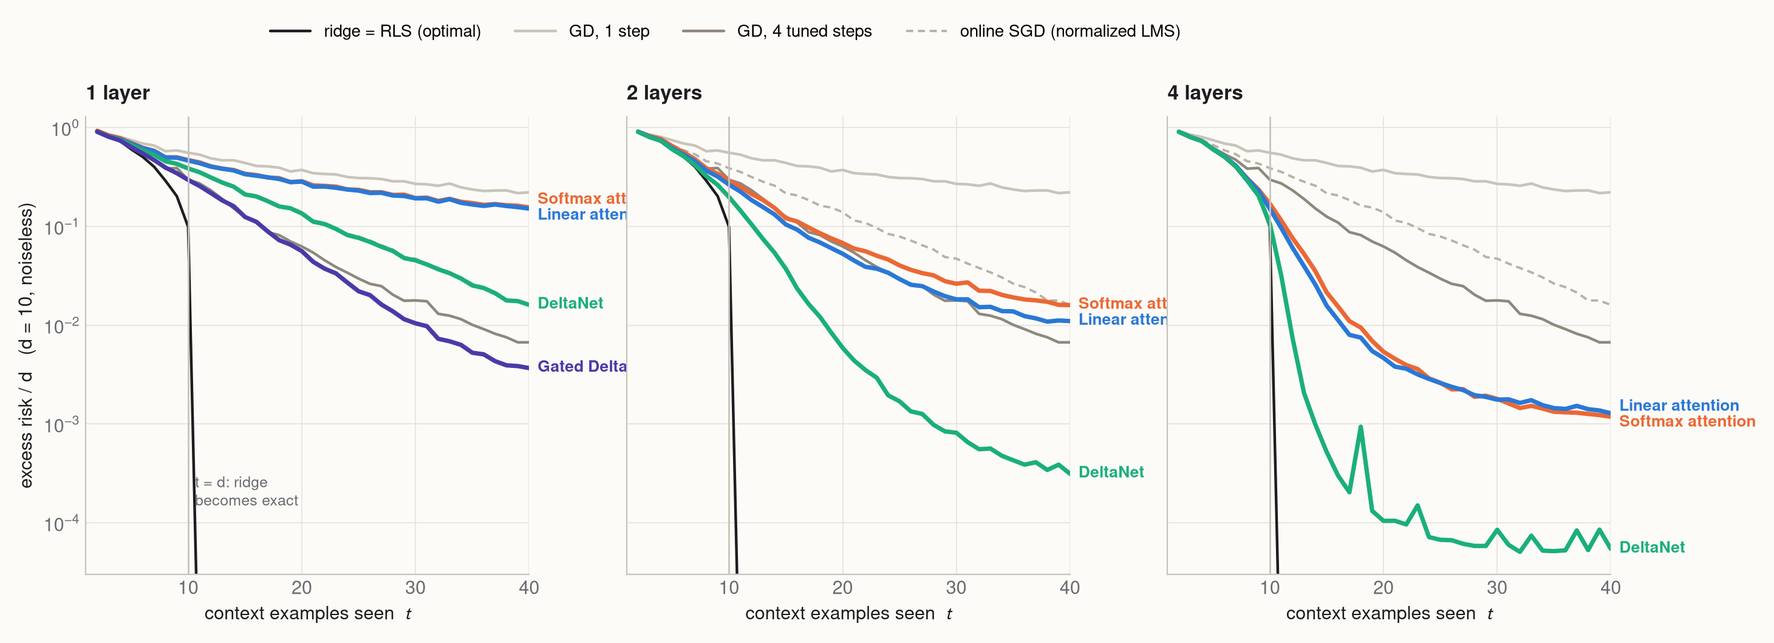
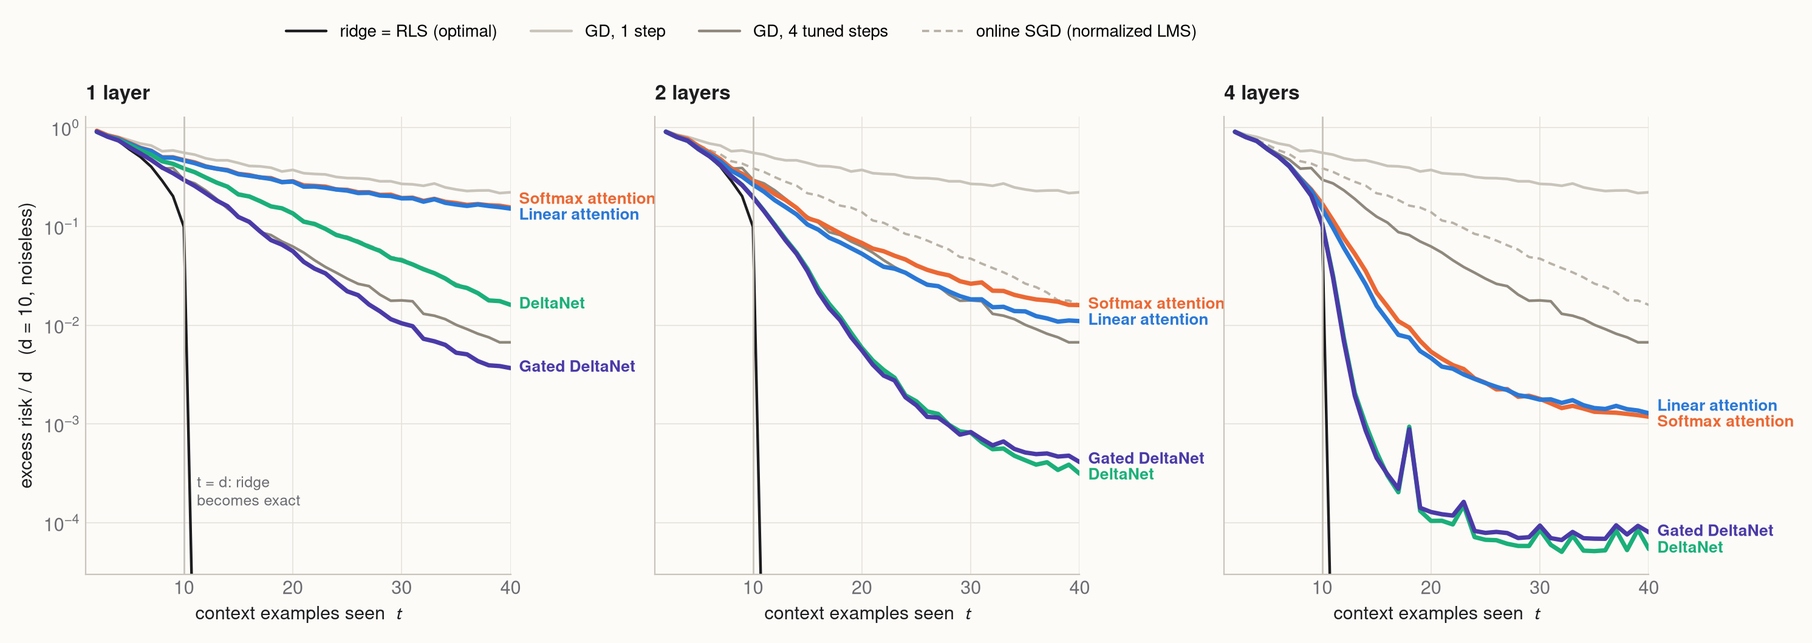
theory/08-icl-linear-attention: build-on results (delta rule learns NLMS; deep delta nets approach ridge), depth heavy tails, post text for sections 2-4, 7-8

diff --git a/theory/08-icl-linear-attention/render_seq.py b/theory/08-icl-linear-attention/render_seq.py
@@ -80,7 +80,7 @@ for j, (ax, L) in enumerate(zip(np.atleast_1d(axs), Ls)):
     ax.set_xlabel("context examples seen  $t$")
     if j == 0:
         ax.set_ylabel("excess risk / d   (d = 10, noiseless)")
-        ax.text(D + 0.6, 1.5e-4, "t = d: ridge\nbecomes exact", color=style.MUTED, fontsize=9)
+        ax.text(D + 1.2, 1.5e-4, "t = d: ridge\nbecomes exact", color=style.MUTED, fontsize=9)
 fig.legend(handles=handles, loc="upper center", ncol=4, bbox_to_anchor=(0.45, 1.06), fontsize=10, handlelength=2.4)
 for a in ALG_STYLE:
     summary[f"alg_t40_{a}"] = float(np.array(algs[a])[-1] / D); summary[f"alg_t20_{a}"] = float(np.array(algs[a])[19] / D)
@@ -123,39 +123,39 @@ fig.savefig(HERE / "figures" / "fingerprint.png")
 plt.close(fig)
 
 # ------------------------------------------------------------------------------------------ shift
-Lsh = 2 if 2 in Ls else Ls[0]
-fig, axs = plt.subplots(1, 2, figsize=(13.5, 4.8), gridspec_kw=dict(wspace=0.42))
+fig, axs = plt.subplots(1, 3, figsize=(17.5, 4.9), gridspec_kw=dict(wspace=0.62))
 cs = np.array(R["scales"])
 late = t >= 30
 handles = []
-ax = axs[0]
 sc_alg = R["algs"]["0.0"]["scale"]
-for a, (name, col, lw, ls) in ALG_STYLE.items():
-    if a == "ridge":
-        continue
-    y = [np.mean(np.array(sc_alg[str(c)][a])[late]) / D for c in cs]
-    h_, = ax.plot(cs, y, color=col, lw=lw, ls=ls, label=name)
-    handles.append(h_)
-labs = []
-for k in KINDS:
-    v = get(k, Lsh)
-    if v is None:
-        continue
-    y = [np.mean(np.array(v["scale"][str(c)])[late]) / D for c in cs]
-    ax.plot(cs, y, color=style.C[k], lw=2.6, marker="o", ms=5, mec=style.PAPER)
-    labs.append((k, np.log10(y[-1])))
-    summary[f"scale_{k}_L{Lsh}"] = dict(zip(map(str, cs), y))
-for (k, _), yv in zip(labs, declutter([l[1] for l in labs], 0.22)):
-    ax.annotate(style.NAMES[k], (cs[-1], 10**yv), xytext=(6, 0), textcoords="offset points", color=style.C[k], fontsize=9.5, fontweight="bold",
-                va="center", annotation_clip=False)
-ax.axvline(1, color="#c9c4ba", lw=1)
-ax.set_xscale("log", base=2); ax.set_yscale("log"); ax.set_ylim(2e-4, 5)
-ax.set_xticks(cs); ax.set_xticklabels([f"{c:g}" for c in cs])
-ax.set_xlabel("test inputs rescaled  $x \\to c\\,x$   (trained at c = 1)")
-ax.set_ylabel("excess risk / ($c^2 d$),  t = 30…40")
-ax.set_title(f"a  change the input scale ({Lsh}-layer models)")
-ax.text(0.03, 0.04, "ridge / least squares: exactly 0 at every scale", transform=ax.transAxes, fontsize=9, color=style.INK)
-ax = axs[1]
+for pi, Lsh in enumerate([1, 4]):
+    ax = axs[pi]
+    for a, (name, col, lw, ls) in ALG_STYLE.items():
+        if a == "ridge":
+            continue
+        y = [np.mean(np.array(sc_alg[str(c)][a])[late]) / D for c in cs]
+        h_, = ax.plot(cs, y, color=col, lw=lw, ls=ls, label=name)
+        if pi == 0:
+            handles.append(h_)
+    labs = []
+    for k in KINDS:
+        v = get(k, Lsh)
+        if v is None:
+            continue
+        y = [np.mean(np.array(v["scale"][str(c)])[late]) / D for c in cs]
+        ax.plot(cs, y, color=style.C[k], lw=2.6, marker="o", ms=5, mec=style.PAPER)
+        labs.append((k, np.log10(y[-1])))
+        summary[f"scale_{k}_L{Lsh}"] = dict(zip(map(str, cs), y))
+    for (k, _), yv in zip(labs, declutter([l[1] for l in labs], 0.2)):
+        ax.annotate(style.NAMES[k], (cs[-1], 10**yv), xytext=(6, 0), textcoords="offset points", color=style.C[k], fontsize=9.5, fontweight="bold",
+                    va="center", annotation_clip=False)
+    ax.axvline(1, color="#c9c4ba", lw=1)
+    ax.set_xscale("log", base=2); ax.set_yscale("log"); ax.set_ylim(4e-5, 5)
+    ax.set_xticks(cs); ax.set_xticklabels([f"{c:g}" for c in cs])
+    ax.set_xlabel("test inputs rescaled  $x \\to c\\,x$   (trained at c = 1)")
+    ax.set_ylabel("excess risk / ($c^2 d$),  t = 30…40")
+    ax.set_title(f"{'ab'[pi]}  change the input scale: {Lsh} layer{'s' if Lsh > 1 else ''}")
+ax = axs[2]
 ns = np.array(R["noises"])
 nz_alg = R["algs"]["0.5"]["noise"]
 for a, (name, col, lw, ls) in ALG_STYLE.items():
@@ -179,8 +179,8 @@ ax.axvline(0.5, color="#c9c4ba", lw=1)
 ax.set_yscale("log")
 ax.set_xlabel("test label noise  $\\sigma$   (trained at σ = 0.5)")
 ax.set_ylabel("excess risk / d,  t = 30…40")
-ax.set_title("b  change the noise level (2-layer models)")
-fig.legend(handles=handles, loc="upper center", ncol=4, bbox_to_anchor=(0.47, 1.07), fontsize=10, handlelength=2.4)
+ax.set_title("c  change the noise level: 2 layers")
+fig.legend(handles=handles, loc="upper center", ncol=4, bbox_to_anchor=(0.45, 1.08), fontsize=10, handlelength=2.4)
 fig.savefig(HERE / "figures" / "shift.png")
 plt.close(fig)
 json.dump(summary, open(HERE / "cache" / "seq_summary.json", "w"), indent=1)

diff --git a/theory/08-icl-linear-attention/render_repro.py b/theory/08-icl-linear-attention/render_repro.py
@@ -24,7 +24,8 @@ ev = json.load(open(HERE / "cache" / "lsa1_eval.json"))
 summary = {}
 
 # ------------------------------------------------------------------------------------------ lsa1 plate
-fig, axs = plt.subplots(1, 4, figsize=(18, 4.4), gridspec_kw=dict(wspace=0.34))
+fig, axs = plt.subplots(2, 2, figsize=(12.5, 9.6), gridspec_kw=dict(wspace=0.32, hspace=0.42))
+axs = axs.flatten()
 ax = axs[0]
 for cov, col, name in [("ar1", COR, "correlated"), ("iso", ISO, "isotropic")]:
     z = np.load(HERE / "cache" / f"gradflow_{cov}_d20_N40_s0.npz")
@@ -42,7 +43,7 @@ for cov, col, name in [("ar1", COR, "correlated"), ("iso", ISO, "isotropic")]:
     B = np.array([effective_preconditioner(torch.tensor(pv), torch.tensor(kq), 20).numpy() for pv, kq in zip(z["Wpv"], z["Wkq"])])
     e = np.linalg.norm(B - Gi, axis=(1, 2)) / np.linalg.norm(Gi)
     ax.plot(z["steps"][1:], e[1:], color=col, lw=2.2)
-    style.label_end(ax, z["steps"][-1], e[-1], f"{name}: {e[-1]:.0%}", col, dx=-4, dy=-11, ha="right")
+    style.label_end(ax, z["steps"][-1], e[-1], f"{name}: {e[-1]:.1%}", col, dx=-4, dy=-11, ha="right")
     summary[f"adam_{cov}_relerr_B"] = float(e[-1])
 ax.set_xscale("log"); ax.set_yscale("log"); ax.set_ylim(3e-3, 3)
 ax.set_xlabel("Adam steps (batch 4096, all 882 entries free)"); ax.set_ylabel("$\\|A - \\Gamma^{-1}\\| / \\|\\Gamma^{-1}\\|$")
@@ -71,7 +72,7 @@ for cov, col in [("ar1", COR), ("iso", ISO)]:
     r = ev[cov]["risk_scale"]
     ax.plot(Cs, r["theory_star"], color=style.INK, lw=1.2)
     ax.scatter(Cs, r["trained_mc"], color=col, s=34, zorder=4, edgecolor=style.PAPER, lw=1.2)
-ax.axhline(0, color=style.INK, lw=0)
+ax.set_ylim(4, 180)
 ax.set_xscale("log", base=2); ax.set_yscale("log")
 ax.set_xticks([0.5, 0.71, 1, 1.41, 2]); ax.set_xticklabels(["½", "", "1", "", "2"])
 ax.yaxis.set_major_formatter(matplotlib.ticker.FuncFormatter(lambda v, _: f"{v:g}")); ax.yaxis.set_minor_formatter(matplotlib.ticker.NullFormatter())
@@ -120,7 +121,7 @@ summary["randexp"] = {k: rc[k] for k in ["M", "slope", "risk", "b_finiteN", "slo
 
 # ------------------------------------------------------------------------------------------ depth
 de = json.load(open(HERE / "cache" / "deep_eval.json"))
-fig, axs = plt.subplots(1, 2, figsize=(14, 4.8), gridspec_kw=dict(wspace=0.62))
+fig, axs = plt.subplots(1, 2, figsize=(11.5, 4.7), gridspec_kw=dict(wspace=0.75))
 for ax, tag, ttl in [(axs[0], "iso", "isotropic inputs"), (axs[1], "ar1", "correlated inputs ($\\Lambda_{ij} = 0.8^{|i-j|}$)")]:
     rows = [v for k, v in de.items() if k.startswith(f"lsa_deep_{tag}|")]
     d, n = rows[0]["d"], rows[0]["n"]
@@ -134,13 +135,13 @@ for ax, tag, ttl in [(axs[0], "iso", "isotropic inputs"), (axs[1], "ar1", "corre
         if kind == "dense":
             ax.plot(L_, tr, color=col, lw=1.4, ls=(0, (3, 2)), marker="o", ms=5, mfc=style.PAPER, mec=col, zorder=3)
             ax.errorbar(L_, mu, yerr=np.minimum(2 * se, mu * 0.95), color=col, lw=2.4, marker=mk, ms=8, mec=style.PAPER, mew=1.5, zorder=4, capsize=0)
-            style.label_end(ax, L_[-1], mu[-1], "linear attention", col, dx=10, dy=6 if tag == "iso" else -8, fontsize=10)
-            style.label_end(ax, L_[-1], tr[-1], "same, dropping worst 0.1%\nof prompts", col, dx=10, fontsize=8.5, fontweight="normal")
+            style.label_end(ax, L_[-1], mu[-1], "linear attention", col, dx=8, dy=7 if tag == "iso" else -8, fontsize=11)
+            style.label_end(ax, L_[-1], tr[-1], "dashed: dropping the\nworst 0.1% of prompts", col, dx=8, dy=-6, fontsize=10, fontweight="normal")
             summary[f"depth_{tag}_dense_trim"] = dict(zip(map(int, L_), tr)); summary[f"depth_{tag}_dense_mean"] = dict(zip(map(int, L_), mu))
             summary[f"depth_{tag}_dense_sem"] = dict(zip(map(int, L_), se))
         else:
             ax.errorbar(L_, mu, yerr=2 * se, color=col, lw=2.2, marker=mk, ms=7, mec=style.PAPER, mew=1.5, capsize=0)
-            style.label_end(ax, L_[-1], mu[-1], name, col, dx=10, fontsize=9.5)
+            style.label_end(ax, L_[-1], mu[-1], name.replace(", ", ",\n"), col, dx=8, fontsize=11)
             summary[f"depth_{tag}_{kind}"] = dict(zip(map(int, L_), mu))
     if tag == "iso":
         g = d / n

diff --git a/theory/08-icl-linear-attention/analysis_seq.py b/theory/08-icl-linear-attention/analysis_seq.py
@@ -86,42 +86,49 @@ def model_preds(model, X, y):
     return torch.cat(preds)
 
 
-res = {"t": list(range(1, N + 1)), "scales": SCALES, "noises": NOISES, "models": {}, "algs": {}}
-tuned = {}
-for sig in (0.0, 0.5):
-    t0 = time.time()
-    tuned[sig] = tune(sig)
-    res["algs"][str(sig)] = {"betas": {"nlms": tuned[sig][1][True], "lms": tuned[sig][1][False]},
-                             "gd_lrs": {k: [None] + [v.tolist() for v in tuned[sig][0][k][1:]] for k in tuned[sig][0]}}
-    print(f"tuned baselines for sigma={sig} in {time.time()-t0:.0f}s  betas={tuned[sig][1]}", flush=True)
+BASE = HERE / "cache" / "seq_baselines.pt"
+if BASE.exists():
+    res, EV = torch.load(BASE, weights_only=False)
+    res["models"] = {}
+    print("loaded cached baselines", flush=True)
+else:
+    res = {"t": list(range(1, N + 1)), "scales": SCALES, "noises": NOISES, "models": {}, "algs": {}}
+    tuned = {}
+    for sig in (0.0, 0.5):
+        t0 = time.time()
+        tuned[sig] = tune(sig)
+        res["algs"][str(sig)] = {"betas": {"nlms": tuned[sig][1][True], "lms": tuned[sig][1][False]},
+                                 "gd_lrs": {k: [None] + [v.tolist() for v in tuned[sig][0][k][1:]] for k in tuned[sig][0]}}
+        print(f"tuned baselines for sigma={sig} in {time.time()-t0:.0f}s  betas={tuned[sig][1]}", flush=True)
 
-# shared evaluation prompts
-EV = {}
-for sig in (0.0, 0.5):
-    X, y, f = prompts(4096, sig)
-    EV[("in", sig)] = (X, y, f)
-    EV[("algs", sig)] = algorithms(X, y, sig, *tuned[sig])
-    res["algs"][str(sig)]["risk"] = {k: ((v - f) ** 2).mean(0).tolist() for k, v in EV[("algs", sig)].items()}
-    shift = {}
-    for c in SCALES:
-        Xc, yc, fc = prompts(1024, sig, c)
-        A = algorithms(Xc, yc, sig, *tuned[sig])
-        shift[c] = (Xc, yc, fc)
-        res["algs"][str(sig)].setdefault("scale", {})[str(c)] = {k: (((v - fc) ** 2).mean(0) / c**2).tolist() for k, v in A.items()}
-    EV[("scale", sig)] = shift
-    noise = {}
-    for s2 in NOISES:
-        Xn, yn, fn = prompts(1024, s2)
-        A = algorithms(Xn, yn, sig, *tuned[sig])
-        noise[s2] = (Xn, yn, fn)
-        res["algs"][str(sig)].setdefault("noise", {})[str(s2)] = {k: ((v - fn) ** 2).mean(0).tolist() for k, v in A.items()}
-    EV[("noise", sig)] = noise
-    print(f"baselines evaluated for sigma={sig}", flush=True)
+    # shared evaluation prompts
+    EV = {}
+    for sig in (0.0, 0.5):
+        X, y, f = prompts(4096, sig)
+        EV[("in", sig)] = (X, y, f)
+        EV[("algs", sig)] = algorithms(X, y, sig, *tuned[sig])
+        res["algs"][str(sig)]["risk"] = {k: ((v - f) ** 2).mean(0).tolist() for k, v in EV[("algs", sig)].items()}
+        shift = {}
+        for c in SCALES:
+            Xc, yc, fc = prompts(1024, sig, c)
+            A = algorithms(Xc, yc, sig, *tuned[sig])
+            shift[c] = (Xc, yc, fc)
+            res["algs"][str(sig)].setdefault("scale", {})[str(c)] = {k: (((v - fc) ** 2).mean(0) / c**2).tolist() for k, v in A.items()}
+        EV[("scale", sig)] = shift
+        noise = {}
+        for s2 in NOISES:
+            Xn, yn, fn = prompts(1024, s2)
+            A = algorithms(Xn, yn, sig, *tuned[sig])
+            noise[s2] = (Xn, yn, fn)
+            res["algs"][str(sig)].setdefault("noise", {})[str(s2)] = {k: ((v - fn) ** 2).mean(0).tolist() for k, v in A.items()}
+        EV[("noise", sig)] = noise
+        print(f"baselines evaluated for sigma={sig}", flush=True)
+    torch.save((res, EV), BASE)
 
 OUT = HERE / "cache" / "seq_eval.json"
 if OUT.exists():
     res["models"] = json.load(open(OUT))["models"]
-for path in sorted(glob.glob(str(HERE / "cache" / "seq_*.pt"))):
+for path in sorted(glob.glob(str(HERE / "cache" / "seq_*_seed*.pt"))):
     if pathlib.Path(path).stem in res["models"]:
         continue
     ck = torch.load(path, map_location="cpu")

diff --git a/theory/08-icl-linear-attention/build_widget_data.py b/theory/08-icl-linear-attention/build_widget_data.py
@@ -1,11 +1,12 @@
-"""Collect trained deep-LSA / GD-k points for the explorer widget -> widgets/data_explorer.js"""
+"""Collect trained deep-LSA / GD-k points for the explorer widget -> widgets/data_explorer.js
+Uses the large-sample re-evaluation (eval_deep.py) when available: mean squared error over 2^18 prompts."""
 import json, pathlib
 HERE = pathlib.Path(__file__).parent
+ev = json.load(open(HERE / "cache" / "deep_eval.json"))
 pts = []
-for f in sorted((HERE / "cache").glob("lsa_deep_*.json")):
-    for r in json.load(open(f))["runs"]:
-        kind, L, d, n, sigma, cov = r["cfg"]
-        if cov == "iso" and d == 10 and kind in ("gd", "dense"):
-            pts.append({"kind": kind, "L": L, "n": n, "sigma": sigma, "risk": round(r["risk"], 5)})
+for v in ev.values():
+    if v["cov"] == "iso" and v["d"] == 10 and v["kind"] in ("gd", "dense"):
+        pts.append({"kind": v["kind"], "L": v["L"], "n": v["n"], "sigma": v["sigma"], "risk": round(v["mean"], 5),
+                    "trim": round(v["trim999"], 5), "sem": round(v["sem"], 5)})
 (HERE / "widgets" / "data_explorer.js").write_text("window.EXPLORER_DATA = " + json.dumps({"points": pts}) + ";\n")
 print(len(pts), "points")

diff --git a/theory/08-icl-linear-attention/render_think.py b/theory/08-icl-linear-attention/render_think.py
@@ -151,7 +151,4 @@ if ONLY:
 out = HERE / "figures"
 subprocess.run(["ffmpeg", "-y", "-loglevel", "error", "-framerate", str(FPS), "-i", str(FR / "f%04d.png"), "-c:v", "libx264", "-pix_fmt", "yuv420p",
                 "-crf", "20", "-vf", "scale=1600:-2", str(out / "think.mp4")], check=True)
-subprocess.run(["ffmpeg", "-y", "-loglevel", "error", "-framerate", str(FPS), "-i", str(FR / "f%04d.png"), "-vf",
-                "fps=15,scale=960:-1:flags=lanczos,split[s0][s1];[s0]palettegen=max_colors=160[p];[s1][p]paletteuse=dither=bayer:bayer_scale=4",
-                str(out / "think.gif")], check=True)
-print("wrote think.mp4 / think.gif")
+print("wrote think.mp4")

diff --git a/theory/08-icl-linear-attention/post.md b/theory/08-icl-linear-attention/post.md
@@ -81,7 +81,7 @@ Since the task is regression, we know what the good algorithms are, and we can c
 Here is what those algorithms look like when they run on a prompt in two dimensions. The trained model (blue) is not a black box here: §2 shows it computes exactly this trajectory.
 
 <figure class="wide dark">
-<video autoplay loop muted playsinline src="figures/think.mp4"></video>
+<video autoplay loop muted playsinline poster="figures/think_poster.jpg" src="figures/think.mp4"></video>
 <figcaption>Context pairs arrive one at a time ($d = 2$, correlated inputs, noise $\sigma = 0.35$). Right: each algorithm's current estimate $\hat w$ in weight space. Ellipses are level sets of the least-squares loss on the examples seen so far. Bottom: expected error over many prompts. <b style="color:#ece8df">Ridge/RLS</b> heads straight for the answer. The <b style="color:#4f9bf0">trained one-layer linear attention</b> takes one preconditioned gradient step from zero, so its estimate is a rescaled data average and stays biased while the examples are few. The <b style="color:#2fcf94">delta rule</b> (online SGD, step 0.15) zig-zags. The trajectories are exact closed forms; the risk curves are Monte Carlo over $2\times10^5$ prompts (LMS, ridge) or closed form (linear attention).</figcaption>
 </figure>
 
@@ -129,10 +129,12 @@ Real training uses minibatches, not the population loss. So I also trained every
 
 <figure class="wide">
 <img src="figures/lsa1_plate.png" alt="Convergence to Gamma inverse, risk vs context length, and covariate scaling">
-<figcaption>«CAPTION_LSA1»</figcaption>
+<figcaption>One-layer linear self-attention ($d=20$, $N=40$). <b>(a)</b> Gradient flow on the exact population loss, started from ZFB's initialization, reaches the Theorem 4.1 weights to machine precision: $4\times10^{-11}$ for correlated inputs and $3\times10^{-12}$ for isotropic ones. <b>(b)</b> Adam on minibatches of fresh prompts, with all $2\times21^2 = 882$ entries free, measured by the distance of the effective preconditioner $A = w^{PV}_{22} W^{KQ}_{11}$ to $\Gamma^{-1}$. Isotropic inputs converge to 0.8%. Correlated inputs are still 39% away after 16,000 steps (§8). <b>(c)</b> In-context risk versus test prompt length. Lines are the closed form at $W_*$; dots are the trained layers on $2^{18}$ fresh prompts each. The dashed line is the best *plain* (scalar-step) GD step on correlated inputs: preconditioning is worth a factor 1.6 at $M=40$. <b>(d)</b> Test inputs multiplied by $c$. The error, normalized by $c^2$, explodes away from $c=1$, and again the trained layers sit on the closed form. Least squares has zero error at every $c$.</figcaption>
 </figure>
 
-«TEXT_LSA1»
+The trained layers match the theory closely. At the training length $M = 40$ the isotropic layer's measured risk is 6.85 against a closed-form 6.89, a difference within Monte Carlo error. The correlated layer is at 4.65 against 4.59: it is 1.2% worse, because it has not finished converging. Across test lengths from 5 to 320 and input scales from ½ to 2, every measured point sits on its closed-form curve.
+
+Notice two details of the theory in panel (c). First, the risk keeps falling past the training length $N = 40$ but never reaches zero. A fixed preconditioner is a one-shot estimator, so it can't converge to the truth; ZFB show the excess error has an $O(1/M)$ part and a floor of order $1/N^2$ that only more training *length* removes. Second, the trained layer is far better than a well-tuned plain GD step when inputs are correlated. Everything the layer knows about the input distribution lives in $\Gamma^{-1}$.
 
 ## 3. Where one layer breaks
 
@@ -144,7 +146,7 @@ Real training uses minibatches, not the population loss. So I also trained every
 
 <figure>
 <img src="figures/randcov.png" alt="random covariance training plateau">
-<figcaption>«CAPTION_RANDCOV»</figcaption>
+<figcaption>A layer trained on prompts whose diagonal covariance is redrawn per prompt (Exponential(1) entries, $d=20$, $N=40$). Weights from exact gradient flow, which lands on ZFB's Theorem 4.5 solution to $10^{-11}$. <b>Left:</b> more test examples do not drive the error to zero. It plateaus at $d\,(6b^2-4b+1) = 7.06$, where $b = 0.276$ is the diagonal of the learned preconditioner (1/3 in the $N\to\infty$ limit). <b>Right:</b> predictions versus the truth at $M=2560$. The least-squares slope is 0.556, against a predicted $2b = 0.552$. ZFB's "$\tfrac13$" is the average gain $\mathbb E[b\,\lambda_{\text{new}}]$; the regression slope is larger because prompts with large variance count more.</figcaption>
 </figure>
 
 A single layer can only apply one preconditioner. To adapt to each prompt's own geometry, like RLS or Newton's method do, it needs a *data-dependent* preconditioner. That takes depth, or a different recurrence.
@@ -168,11 +170,15 @@ The widget runs these formulas live (ridge and $k$-step GD, with the step sizes 
 <script src="widgets/data_explorer.js"></script>
 <script src="widgets/explorer.js"></script>
 
-«TEXT_DEPTH»
+Three things show up in the depth figure below.
+
+1. **Layers really are steps, and depth pays off geometrically.** GD with learned step sizes (gray) improves by roughly 2× per step, close to the $\gamma=\tfrac12$ formula and a little worse at finite $d=10$. So does GD with learned preconditioners on correlated inputs (black). One layer of trained linear attention lands on the one-step optimum: 0.357 against a closed-form 0.355 (isotropic), and 0.252 against 0.250 (correlated, ZFB's $\Gamma^{-1}$).
+2. **Trained linear attention beats every GD variant at depth ≥ 2.** At two layers its error is 3× lower than two tuned GD steps on isotropic data, and 2.3× lower than two *preconditioned* steps on correlated data. The dense weights let each layer rewrite the $x$ tokens too, so later layers precondition with statistics of *this* prompt. This is von Oswald's GD++, a cheap relative of Newton's method. Fu et al. (2024) push this further and argue that deep transformers track iterative Newton.
+3. **The mean error of deep linear attention is heavy-tailed.** A depth-$L$ network is a polynomial of degree about $3^L$ in the prompt, so a rare prompt with a few large inputs can produce an enormous error. For the 3-layer isotropic model, the mean over $2.6\times10^5$ prompts is $0.071 \pm 0.03$, while dropping the worst 0.1% gives 0.029. The 4-layer model on correlated inputs has a typical error of 0.005 but a mean dominated by a handful of prompts. GD with few steps is a polynomial too, but of lower degree, and its mean and trimmed mean differ by under 10%.
 
 <figure class="wide">
 <img src="figures/depth.png" alt="depth vs risk">
-<figcaption>«CAPTION_DEPTH»</figcaption>
+<figcaption>Trained models at $d=10$, $n=20$, noiseless, evaluated on $2^{18}$ fresh prompts (error bars ±2 s.e.). Gray: $k$ steps of GD with learned step sizes. Black: $k$ steps with learned matrix preconditioners (Ahn et al.'s sparse parameterization, identical to their Lemma 1). Blue: linear attention with every entry of $P_\ell, Q_\ell$ trained. The solid line is the mean error; the dashed line drops the worst 0.1% of prompts. Dotted line (left): proportional-limit optimum for tuned GD; finite $d = 10$ sits slightly above it. On correlated inputs the dense models start from Ahn's sparsity pattern plus noise, because from a purely random start the one-layer model stalled at twice the optimal error (§8).</figcaption>
 </figure>
 
 ## 5. How many tasks does it need?
@@ -237,21 +243,27 @@ The baselines on the same prompts are ridge (= RLS); GD with 1–4 steps, step s
 
 <figure class="wide">
 <img src="figures/race.png" alt="algorithm race">
-<figcaption>«CAPTION_RACE»</figcaption>
+<figcaption>Excess risk (per dimension) after seeing $t$ examples, for $d=10$ and noiseless prompts. One model per curve, averaged over 4,096 fresh prompts. Neutral lines are the classical algorithms on the same prompts. GD is re-tuned separately for every $t$, which is an advantage no fixed network has. Ridge is exactly zero once $t \ge d$. The spikes in the 4-layer DeltaNet curves come from a few hard prompts in the shared evaluation set.</figcaption>
 </figure>
 
-«TEXT_RACE»
+**Result 1: at matched depth, the delta rule wins by one to two orders of magnitude.** With one layer, softmax and linear attention reach an error of 0.15 at $t = 40$. That is better than a single tuned GD step (0.22) but nowhere near least squares. DeltaNet reaches 0.016 and Gated DeltaNet 0.004. With two layers, the attention models reach 0.011–0.016, about as good as four *oracle-tuned* GD steps (0.007). Both delta-rule models reach $3$–$4\times10^{-4}$, 30–50× lower. With four layers, attention gets to $1.2\times10^{-3}$ and the delta-rule models to $5$–$8\times10^{-5}$.
+
+Softmax and linear attention are nearly indistinguishable at every depth, even though only one of them has a clean GD interpretation. Softmax normalization turns out not to matter much here; the error-correcting write in DeltaNet does.
 
 <figure class="wide">
 <img src="figures/fingerprint.png" alt="algorithm fingerprint">
-<figcaption>«CAPTION_FP»</figcaption>
+<figcaption>How close is each trained model's prediction to each algorithm's prediction on the same prompts? Each cell is the mean squared difference per dimension, averaged over $t = 11\dots40$; the box marks the closest algorithm. Caveat: a model that is simply very good sits close to ridge by default, so read the ridge column as "good", and the other columns as "specifically like this algorithm".</figcaption>
 </figure>
 
-«TEXT_FP»
+**Result 2: one layer of DeltaNet has learned exactly online SGD.** Its predictions differ from normalized LMS, run with a step size I tuned independently ($\beta^\star = 0.96$), by only 0.002 per dimension, and its risk curve lies on top of LMS's (0.0161 vs 0.0161 at $t=40$). Opening the model up confirms it. One head writes with $\beta \approx 0.95$ on example tokens and a much smaller $\beta \approx 0.2$ on query tokens, which contain no label and would only pollute the memory. The trained network rediscovered the Kaczmarz/NLMS algorithm, step size included.
+
+One-layer attention models sit closest to one GD step, as the theory says, though the MLP and second head make them better than a single step. Gated DeltaNet at one layer is not LMS: it is closer to 4 GD steps and better than both. With two or more layers every delta-rule model is closest to ridge, and far closer to it than attention is.
+
+Gates also turn out to be used, but not for forgetting examples. In the deeper Gated DeltaNets, one head in the first layers learns a decay $\alpha \approx 0.01$–$0.4$, a memory that lasts only a token or two, while the other head keeps $\alpha \approx 1$. It looks like the network builds itself a local "previous token" channel next to the long-term regression memory.
 
 <figure class="wide">
 <img src="figures/shift.png" alt="shift tests">
-<figcaption>«CAPTION_SHIFT»</figcaption>
+<figcaption>Changing the test distribution. <b>(a, b)</b> Inputs multiplied by $c$ (noiseless; error normalized by $c^2$ and averaged over $t=30\dots40$). Ridge/least squares is exactly 0 at every scale (not shown). Normalized LMS (dashed) is scale-invariant by construction. GD with fixed tuned steps diverges for $c > 1$. <b>(c)</b> Models trained with label noise $\sigma = 0.5$, tested at other noise levels; neutral lines are the algorithms tuned for $\sigma = 0.5$.</figcaption>
 </figure>
 
 «TEXT_SHIFT»
@@ -262,7 +274,19 @@ The baselines on the same prompts are ridge (= RLS); GD with 1–4 steps, step s
 
 ## 8. What didn't match
 
-«TEXT_BREAKS»
+Honest accounting of where measurement and theory parted ways, or where I had to change the setup to get a clean result.
+
+**Minibatch training is much slower than the theorem suggests on correlated inputs.** Gradient flow on the exact population loss converges for both covariances, but look at the time axis of panel (a) in §2: isotropic inputs converge by $t\approx 7$, correlated ones only by $t \approx 500$. The directions of $\Gamma^{-1}$ tied to small eigenvalues of $\Lambda$ (down to 0.11 here) are learned last; the hero animation shows the smooth, large-eigenvalue part of the matrix appearing first. With Adam at batch 4096, the correlated layer is still 39% from $\Gamma^{-1}$ after 16,000 steps, even though its risk is within 1.2% of the optimum. The loss is flat in exactly the directions that are slow. Plain SGD at learning rates that finish in reasonable time diverged outright, because the loss is quartic in the inputs and minibatch gradients are heavy-tailed. All the matrix-level matches in §2 therefore come from the exact flow, and the risk-level matches come from Adam.
+
+**The theorem needs its initialization.** ZFB's convergence proof assumes a specific balanced initialization. With deep linear attention on correlated inputs and a generic small random initialization, the one-layer model stalled at an error of 0.50 per dimension, twice the optimum of 0.25, after 6,000 steps. I switched to Ahn et al.'s sparsity pattern plus noise on every entry, which then trained cleanly.
+
+**Averages hide heavy tails.** Deep linear attention is a high-degree polynomial of its input. The mean error of the 4-layer correlated model is about 100× its error with the worst 0.1% of prompts removed, and its standard error is as large as the mean. Training on minibatches never sees those prompts, so the training loss looked fine. Any claim of the form "depth-$L$ attention reaches error $\epsilon$" should say which average it means.
+
+**The proportional limit is only approximate at $d = 10$.** Two tuned GD steps measured 0.169 per dimension against a limit of 0.143 at $\gamma = \tfrac12$. The formula gets the trend right, and finite dimension adds roughly 20% at these sizes.
+
+«BREAK_TD»
+
+**The build-on experiment is small.** It uses one seed per configuration, 8,000 training steps, width 64, and $d=10$. Differences within a factor of 1.5 (for example DeltaNet vs Gated DeltaNet at 2 and 4 layers) should not be read as real. The prompt format also matters: I give each architecture the pair $(x_t, y_t)$ in a single token, so no model has to learn to bind $x$ to $y$ across tokens. Garg et al. and Raventós et al. interleave $x$ and $y$ tokens, which favours architectures that can move information between neighbouring positions. DeltaNet's L2-normalized keys make it natively NLMS rather than LMS. That probably helps it here and is part of what is being compared, not a neutral detail.
 
 ## Reproduce it
 
